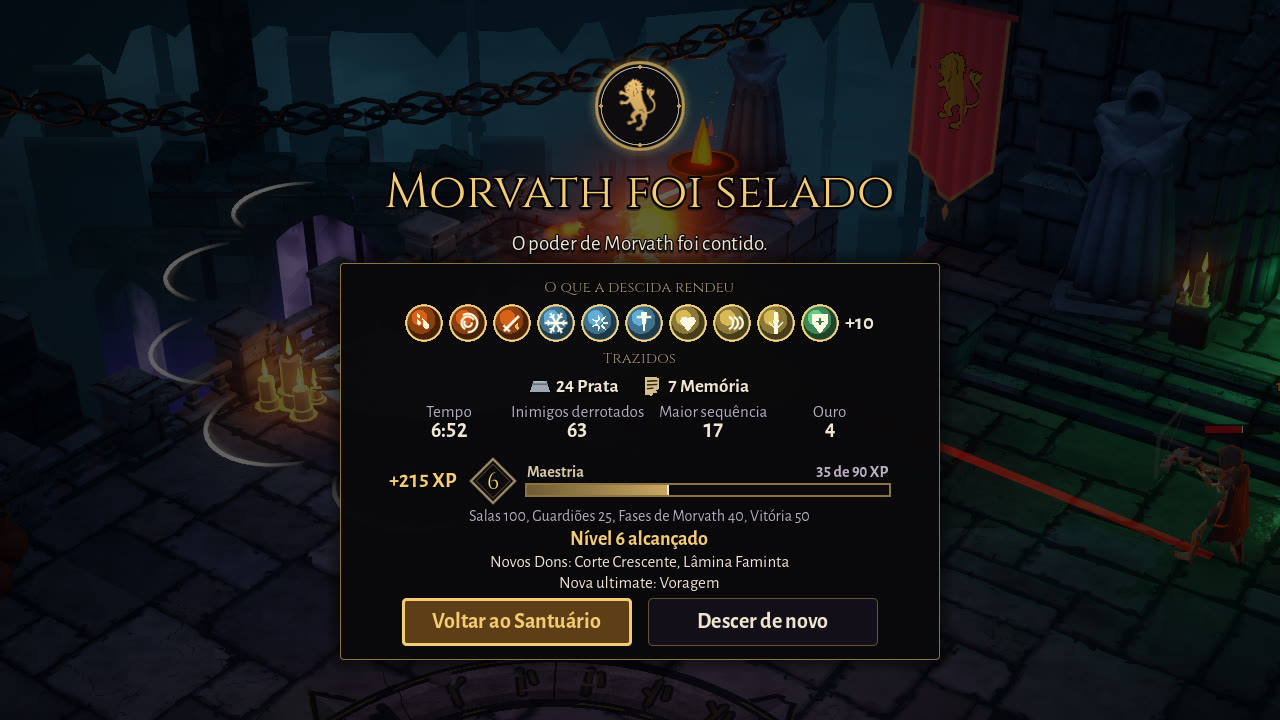
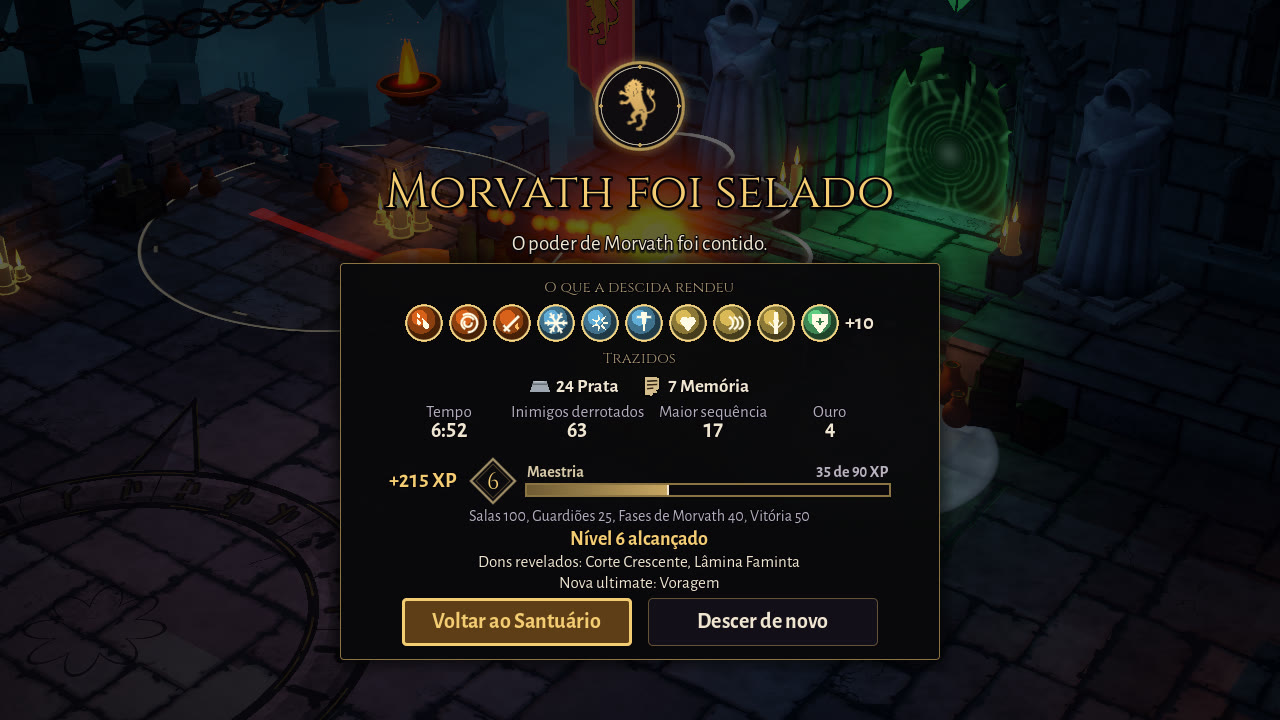
UI P2 from the layout review (Juramentos, Música, Compêndio rows, hub menu, Provação focus) and hub plan touch-ups

diff --git a/CLAUDE.md b/CLAUDE.md
@@ -1701,7 +1701,9 @@ worktree). Tarefa pequena o Game Director faz direto. Protocolo completo: `docs/
   (`Masonry.fungus(at, count, reach, seed)`, cacho de chapéus achatados, `fungus.gdshader`: marfim-cinza, brilho só na
   borda do chapéu, maior canal até 0,6); água escura (`dark_water.gdshader`, da família do `fountain_water` mas à parte
   para a fonte clássica não mudar: `form` 0 lâmina com ondas lentas e espuma quebrada na borda, `foam_at` onde cai a
-  cascata; `form` 1 cascata em cartão com veios descendo e névoa no pé; matiz 200 a 210, espuma abaixo de `peak` 0,9).
+  cascata; `form` 1 cascata em cartão com veios descendo e névoa no pé; matiz 200 a 210, espuma abaixo de `peak` 0,9; no Compatibility, onde a luz própria sai sem o linear para sRGB e a
+  água ficava preta, o corpo entra pela luz própria `compat_body` 1,0 e ondas e espuma sobem pela raiz de 2,2 vezes
+  `compat_glow` 0,7: na fonte do hub matiz 193 para 202, saturação 0 para 0,41, luma p90 102 para 109, contra 203, 0,39 e 97 no Forward+).
   Em `ArenaRoom`: `added_since(from)`, `style_abyss(nós, mist, cor, luz)` (apaga partículas, recolore as luzes da camada
   funda e a bruma), `style_depths(valores)` (todo material da pedra funda da sala, inclusive a das bordas) e
   `hanging_lantern(from, ring_y, size, luz, styled)` (a lanterna do Jardim, agora comum; `styled` monta no `kit.styled()`).
@@ -1899,7 +1901,10 @@ worktree). Tarefa pequena o Game Director faz direto. Protocolo completo: `docs/
   `head_shrink` 0,9; 4 005 + 4 232 triângulos (teto 12 mil). Opções novas do modo KayKit do assado: `height`,
   `head_shrink`, `embed` e o 4º campo do clipe `{from, to, bend}`. Desenhados por `HubNpc`
   (`scripts/render/hub_npc.gd`: um `CrowdRenderer` próprio com uma figura, a mesma pintura, contorno e faixas do
-  estilizado da multidão, F7 ao vivo; `HubNpc.make(HubNpc.Who.VENDOR|SMITH)`, `face(ponto)`, `gesture()`): parado no
+  estilizado da multidão, F7 ao vivo, mas mais claros que os mortos: T-1 da re-revisão, `HubNpc.STYLE_LIGHT` 0,5,
+  `STYLE_SCENE` 0,3 e `STYLE_RIM` 0,35 contra 0,2 / 0,1 / 0,18 da multidão, o Vendedor, de capuz escuro sob o toldo,
+  vezes `STYLE_VENDOR` 2,2; corpo na câmera Perto de luma p50 cerca de 55 para 79 no Forjador e 45 para 76 no
+  Vendedor, o herói ao lado 94 a 97; `HubNpc.make(HubNpc.Who.VENDOR|SMITH)`, `face(ponto)`, `gesture()`): parado no
   `Idle` e um gesto de vez em quando (Vendedor `Interact` a cada 6 a 9 s; Forjador em séries de 3 a 5 golpes do
   `1H_Melee_Attack_Chop` a cada 1,2 s, cortado onde a cabeça do martelo pousa na face da bigorna a 0,94 m com o
   tronco 12 graus para trás, `HubNpc.landing`, `strike_point`, e 4 a 7 s de descanso), fagulhas âmbar pequenas
@@ -1925,7 +1930,7 @@ worktree). Tarefa pequena o Game Director faz direto. Protocolo completo: `docs/
   fica abaixo de 0,85 da tela (`test_near_the_south_edge_stays_low`); com estação em foco a câmera ainda se inclina pelo
   `HubPlan.frame_for` (`SHOW`, `CamRig.lean`). Estações com lugar próprio e de frente para a câmera: barraca do Vendedor
   no lóbulo oeste (`COUNTER` com `COUNTER_HALF`, toldo de 5,8 m listrado terra e ocre de 5 a 3,5 m de altura sobre quatro
-  postes, `AWNING_*`, prateleiras atrás, mercadorias, duas lanternas; mercadorias encostadas, `GOODS`); Árvore a 0,8 sobre
+  postes, `AWNING_*`, prateleiras atrás, mercadorias, duas lanternas; mercadorias encostadas, `GOODS`); Árvore a 0,56 (inteira na tela da Longe, re-revisão E-3) em ouro mais velho sobre
   o estrado no lóbulo leste (folhas em cartões maiores e em menos lugares, H-P2-1); forja no chão a noroeste da bigorna
   (`FORGE`, `FORGE_HALF`: bloco de 3,8 x 3 m e 3,4 de altura, boca em arco para o sul com brasas, fogo e brilho, coifa,
   chaminé de 5,8 m com fumaça, a única luz de fogo com sombra), bigorna 1,5 vez maior, os dois NPCs com círculo de corpo onde são desenhados (`HubPlan.SMITH_SPOT` onde o martelo do
@@ -1946,7 +1951,10 @@ worktree). Tarefa pequena o Game Director faz direto. Protocolo completo: `docs/
   brilho do fundo da forja mais forte, uma gêmea de luz `FORGE_RANK_LIGHT` 0,3 por posto e duas línguas de fogo a mais
   desde o posto 2. Medalhões da Fatia 1 no `RewardGem`: Prata Antiga em prata com a barra (`Mark.INGOT`, aro de prata) e
   Fragmento de Memória em pergaminho com a folha rasgada a tinta (`Mark.LEAF`, `parchment` no `reward_gem.gdshader`);
-  `tools/gem_lab.gd` mostra os medalhões lado a lado (`docs/gallery/hub/d/medallions_silver_memory_720.png`). Capturas do hub
+  Re-revisão do art-director (E-1 a E-4): os braseiros do terraço acendem difuso no estilizado (`light_specular` 0, sem
+  os discos de borda dura na fachada), a luz da forja fica `FORGE_LIGHT_EAST` 1,5 m a leste da boca (a poça chega à
+  bigorna e ao Forjador) e dois canteiros baixos partem os quadrantes de baixo da praça (`BEDS`, u ±7,4, v -1,5; o
+  maior quadrado livre de peça é o do medalhão da chegada, 8,5 m). `tools/gem_lab.gd` mostra os medalhões lado a lado (`docs/gallery/hub/d/medallions_silver_memory_720.png`). Capturas do hub
   com a câmera Longe pedem `--cam=far` (a Perto é o padrão desde o LR-01).
 - **Fatia 1, parte do technical-artist (`docs/design/rejogabilidade/sistemas.md` 3.4; provas em `docs/gallery/rj1/`,
   `tools/rj1_lab.gd`)**: a Emeth por posto de Temperar: `temper` no `emeth.gdshader` (0 a 2, padrão 0 = a lâmina de
@@ -1956,8 +1964,8 @@ worktree). Tarefa pequena o Game Director faz direto. Protocolo completo: `docs/
   `style_cap`; o gameplay-engineer liga ao `ForgeRank`. Selos dos quatro anjos em código (`AngelSeal`,
   `scripts/ui/angel_seal.gd`: `AngelSeal.new().setup(Boon.Family.X, px, lit)` ou `AngelSeal.mark(ci, família, centro,
   raio, linha, cor)`): o selo da casa (`SealMedal.draw_seal`) e a marca da família (Chama brasa em losango com três
-  línguas de fogo, Geada floco de seis braços, Luz feixe vertical sobre um losango sem raios, Vigília a trombeta do
-  vigia), cores calmas em `AngelSeal.TINT`; nunca sol, cruz, leão, escudo nem olho; o Elo não tem selo.
+  línguas de fogo, Geada floco de seis braços, Luz um feixe sem ponta que desce sobre um losango, o topo reto esmaecendo (alfa 0,2 no alto a 0,9 embaixo) e alargando até a largura do losango com dois fios nas bordas, T-2, nunca pedra em pé nem raios, Vigília a trombeta do
+  vigia, oliva, T-3), cores calmas em `AngelSeal.TINT`; nunca sol, cruz, leão, escudo nem olho; o Elo não tem selo.
 
 ## Rejogabilidade, Fatia 1 (gameplay; spec `docs/design/rejogabilidade/sistemas.md` 1, 3 a 5; API para a UI em 5.3)
 - **Três materiais, sem Brasa** (Q-RJ1 a Q-RJ3): Prata Antiga, Fragmento de Memória e Esmeralda (nomes de trabalho),
@@ -2030,6 +2038,18 @@ worktree). Tarefa pequena o Game Director faz direto. Protocolo completo: `docs/
   mais do mesmo enquanto aparece ou espera soma. O `Hud._greet_materials` lê `game.materials.found` a cada quadro e saúda
   tudo menos o abate de elite (fica só a palavra do `Rooms.found` onde ele caiu). Respeita o `keep_out` das placas como
   as outras saudações.
+- Texto da Maestria: o nível revela, a Memória abre: "Dom revelado: X" / "Dons revelados: X, Y" no fim
+  (`MasteryReport.unlocks`) e "O nível N revela: ..." no Livro (`hero_next`).
+- P2 da revisão d2ff05d fechados depois: Juramentos sem caixa por linha, fio entre linhas, foco numa faixa com a linha de
+  ouro, "Peso N" à direita só ligado (`JuramentoScreen._thread`); Músicas com cabeçalhos `UiKit.section` e o Ouvir só
+  inteiro na linha em foco, sob o ponteiro ou tocando (`MusicRoomScreen.QUIET_LISTEN` 0,3; a largura ficou a de antes,
+  1160: com as duas colunas numa de 780 a lista não cabe em 720); Compêndio, Inimigos e Dons com linhas de 34 px
+  (`CodexScreen.LIST_ROW`), a marca do papel do inimigo a tinta (`RoleMark`, `scripts/ui/role_mark.gd`) e a contagem
+  "64 derrotados · 5 de elite" em `FADED` no `number_font`; menu do Santuário numa folha do Livro (`PauseMenu` com
+  `hub`: `BookSpread` única, botões de papel); foco das cartas (Bênção, Provação, Altar, Encontro) em cantoneiras marfim
+  por dentro da linha de metal, nunca uma linha inteira (`BoonCard.draw_focus`, `FOCUS_ARM`; a Comum em foco ganha um
+  brilho marfim, as outras ficam com o brilho da raridade); os cabeçalhos em versal das cartas de evento ficam em 13
+  px (`BoonCard.HEAD_SIZE`: a 14 o da maldição quebra em duas linhas na faixa). Testes no fim de `tests/test_ui_review.gd`.
 - Capturas: `--hub --hero-at=smith --hub-use=smith --materials=silver:30,memory:5` (Forja), `--title --screen=gifts
   --hero-xp=160 --hero-opened=quarto_corte --materials=...` (`--hero-opened` só abre esses, os outros revelados ficam
   selados; `Save._dev_hero`), `tools/book_lab.gd` (`gifts_sealed`, `_ask`, `_short`), `tools/ui_lab.gd -- --meeting` e
